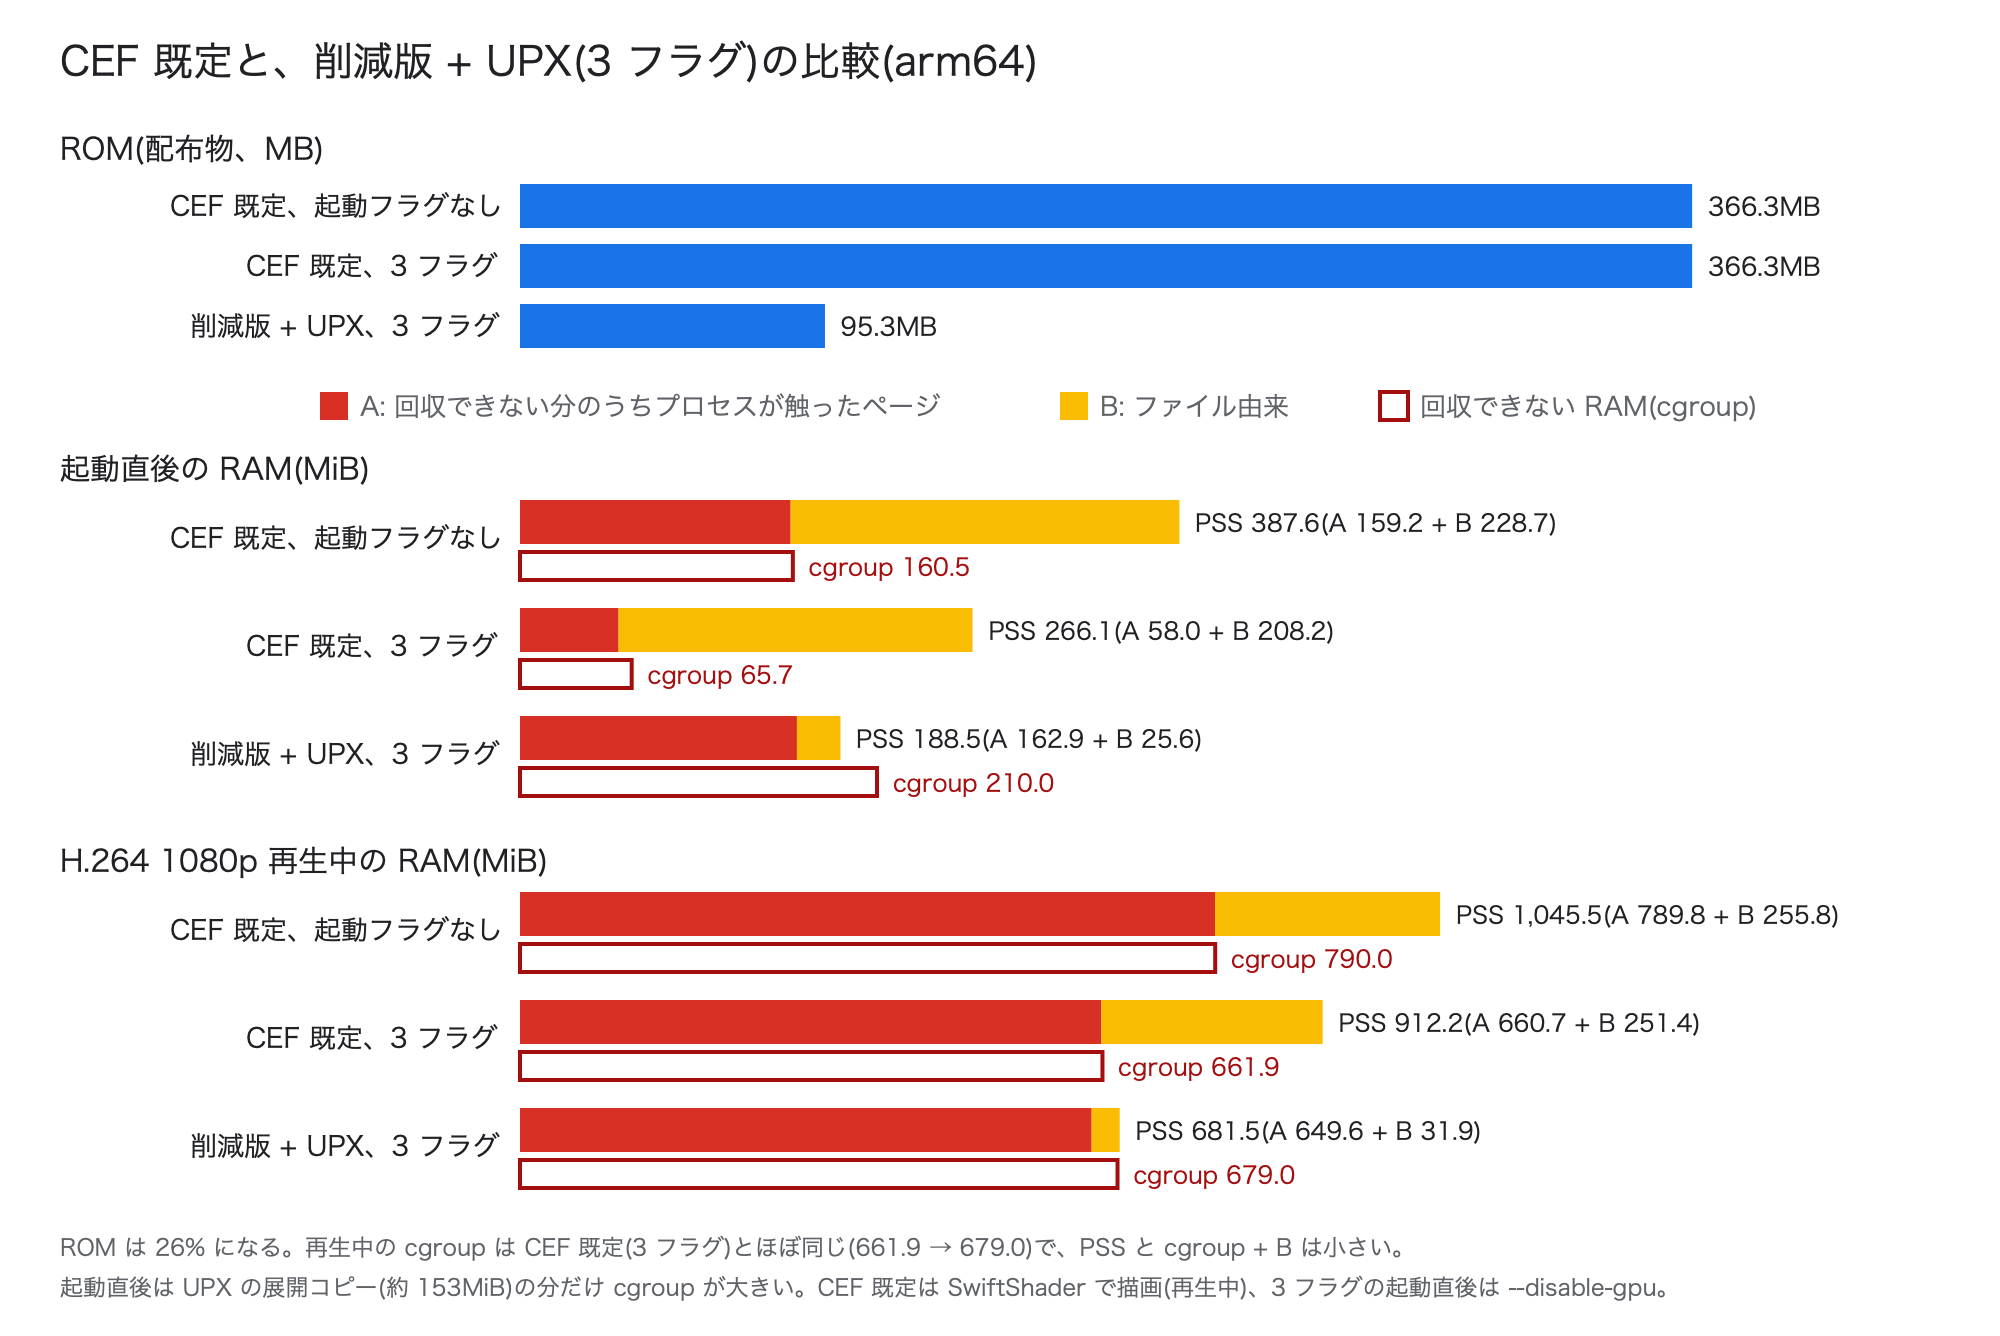
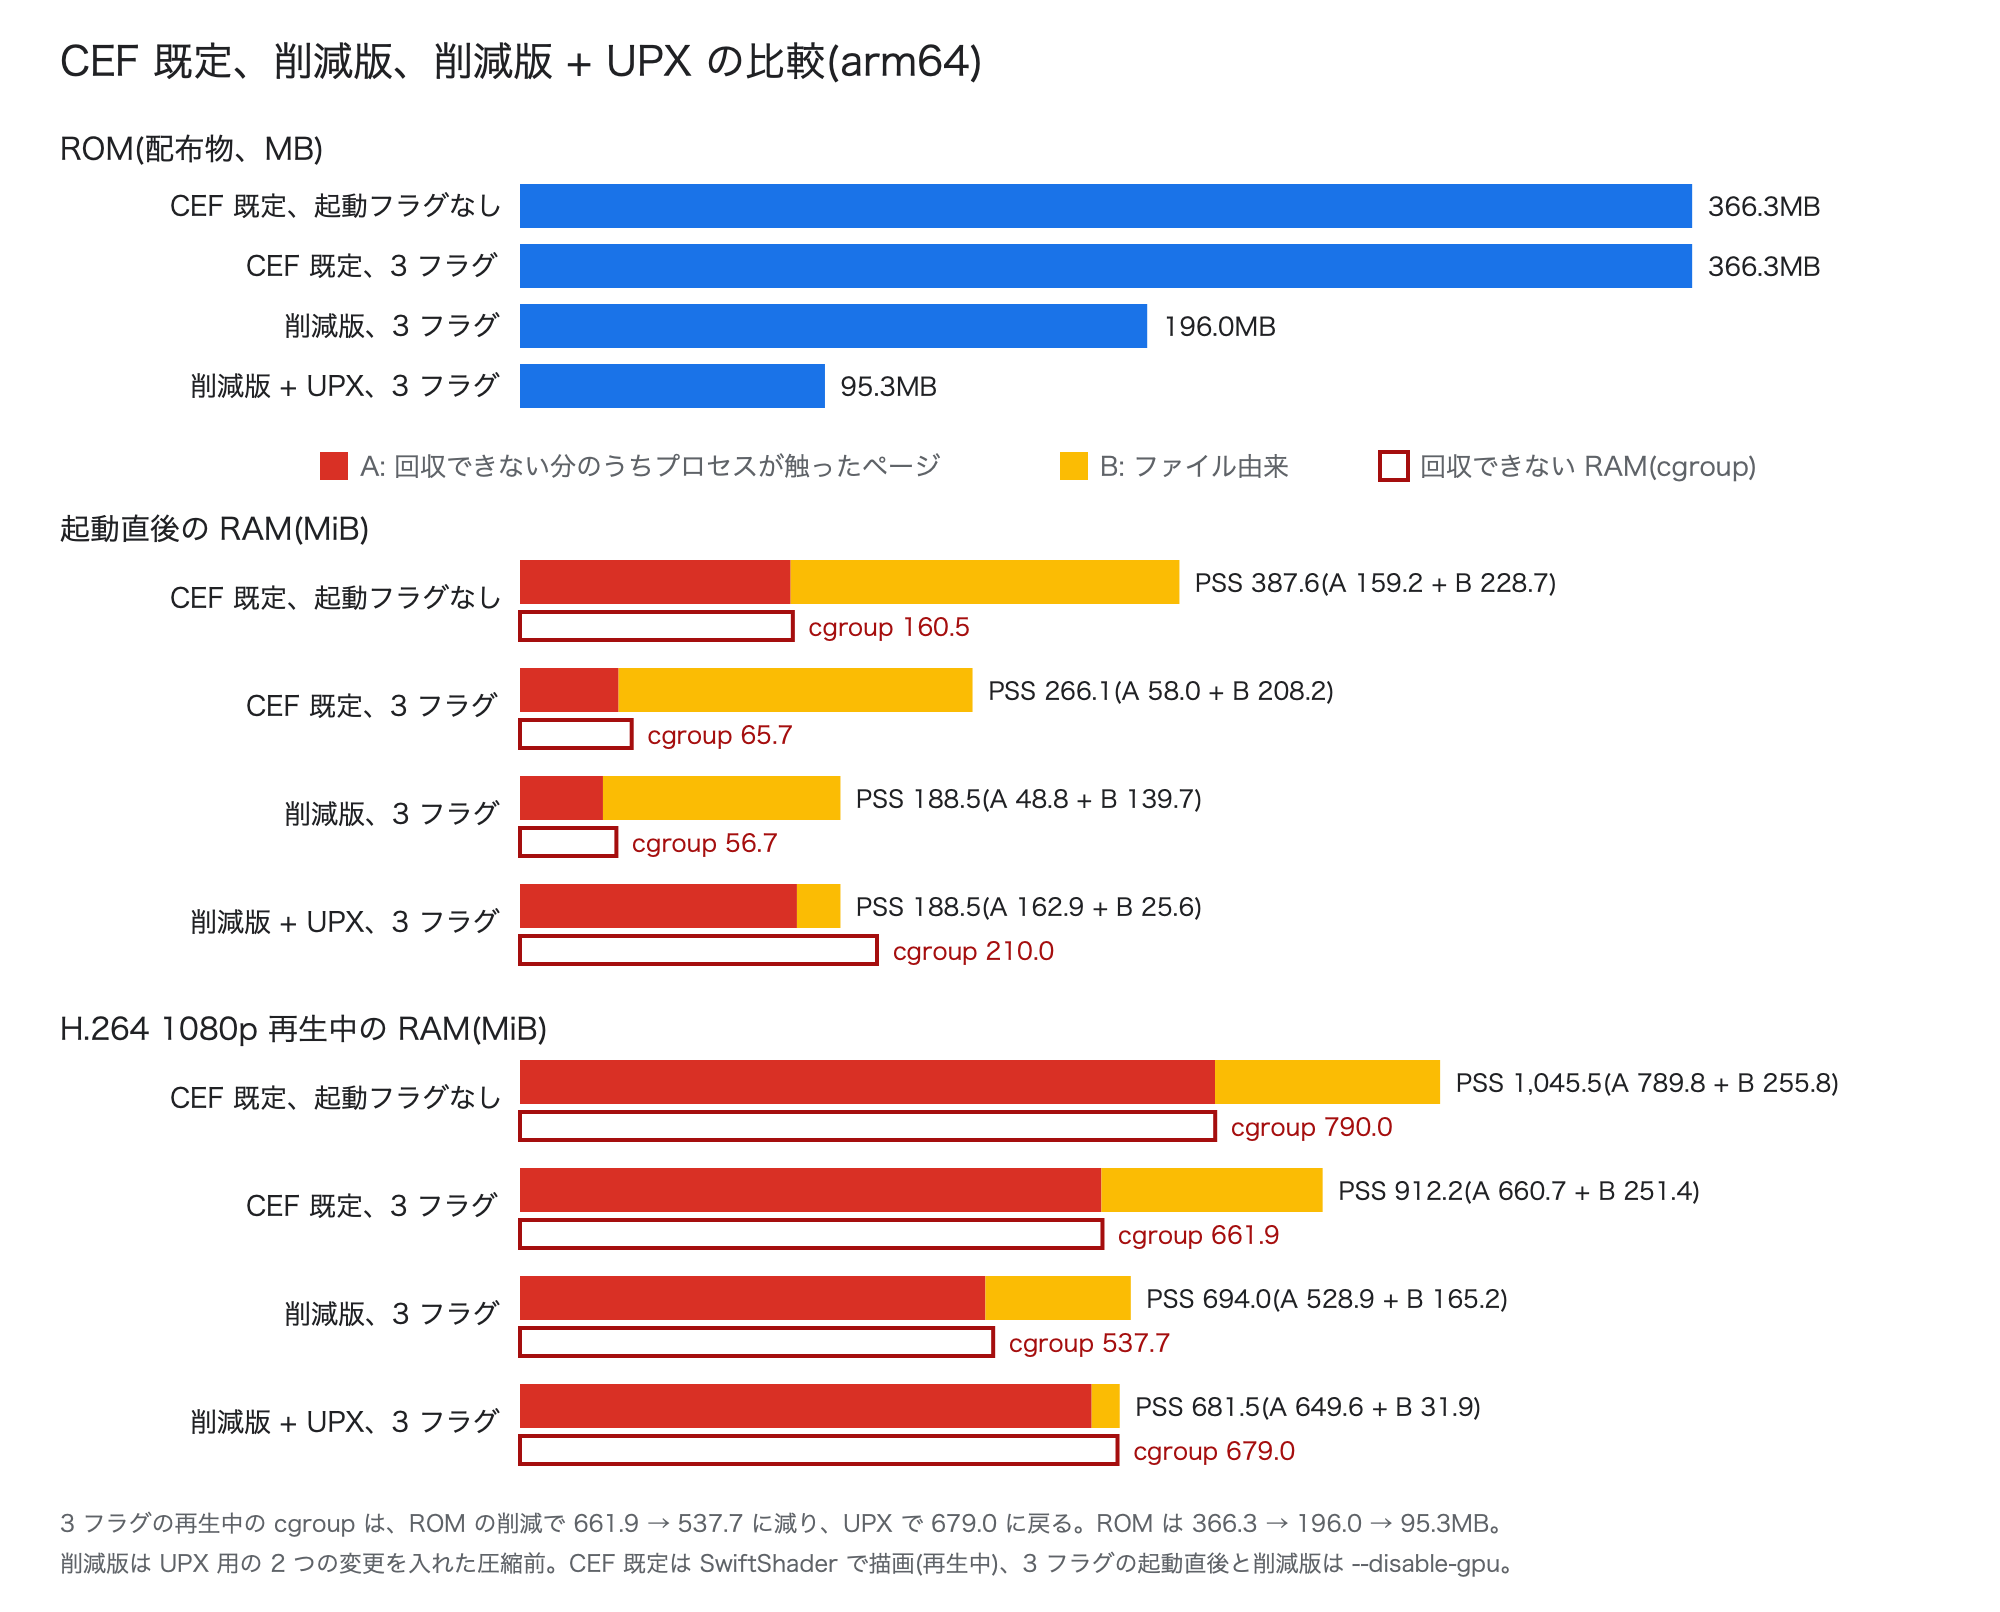
CEF 既定との比較の表と図 17 に削減版(UPX なし)を追加

Changed region(s): [[0.031, 0.0307, 0.93, 0.982], [0.682, 0.2762, 0.868, 0.3069]]

diff --git a/scripts/figs_upx2.py b/scripts/figs_upx2.py
@@ -192,9 +192,10 @@ ab_fig('fig16-upx-startup.svg', 'UPX の有無と起動直後の RAM(arm64、単
        ['UPX では B(ファイル由来)が A(回収できない分)に移り、触っていない展開コードが cgroup にだけ入る。', '削減版は SwiftShader なしで UPX 用の 2 つの変更入り。3 回の中央値。logs/428、483、514。'])
 
 # ---- 図 17: CEF 既定と、削減版 + UPX(3 フラグ)の比較(ROM と RAM)
-b = [t(30, 38, 'CEF 既定と、削減版 + UPX(3 フラグ)の比較(arm64)', 20, bold=True)]
+b = [t(30, 38, 'CEF 既定、削減版、削減版 + UPX の比較(arm64)', 20, bold=True)]
 cfg = [('CEF 既定、起動フラグなし', 366.3, (159.2, 228.7, 160.5, 387.6), (789.8, 255.8, 790.0, 1045.5)),
        ('CEF 既定、3 フラグ', 366.3, (58.0, 208.2, 65.7, 266.1), (660.7, 251.4, 661.9, 912.2)),
+       ('削減版、3 フラグ', 196.0, (48.8, 139.7, 56.7, 188.5), (528.9, 165.2, 537.7, 694.0)),
        ('削減版 + UPX、3 フラグ', 95.3, (162.9, 25.6, 210.0, 188.5), (649.6, 31.9, 679.0, 681.5))]
 X0 = 260; y = 66
 b += [t(30, y + 14, 'ROM(配布物、MB)', 15, bold=True)]; y += 26
@@ -215,7 +216,7 @@ for gi, (gl, sc) in enumerate([('起動直後の RAM(MiB)', 0.85), ('H.264 1080p
         b += [r(X0, y + 26, C * sc, 14, '#fff', DRK, 0, 2), t(X0 + C * sc + 8, y + 38, f'cgroup {C:,.1f}', 12, fill=DRK, bold=True)]
         y += 54
     y += 10
-for k, f in enumerate(['ROM は 26% になる。再生中の cgroup は CEF 既定(3 フラグ)とほぼ同じ(661.9 → 679.0)で、PSS と cgroup + B は小さい。',
-                       '起動直後は UPX の展開コピー(約 153MiB)の分だけ cgroup が大きい。CEF 既定は SwiftShader で描画(再生中)、3 フラグの起動直後は --disable-gpu。']):
+for k, f in enumerate(['3 フラグの再生中の cgroup は、ROM の削減で 661.9 → 537.7 に減り、UPX で 679.0 に戻る。ROM は 366.3 → 196.0 → 95.3MB。',
+                       '削減版は UPX 用の 2 つの変更を入れた圧縮前。CEF 既定は SwiftShader で描画(再生中)、3 フラグの起動直後と削減版は --disable-gpu。']):
     b += [t(30, y + 10 + k * 20, f, 11.5, fill=SUB)]
 save('fig17-upx-vs-default.svg', svg(1000, int(y + 50), b))

diff --git a/docs/qiita-article-draft.md b/docs/qiita-article-draft.md
@@ -613,24 +613,24 @@ CEF 既定の値は「結果」の節と同じ測定です(CEF 既定は SwiftSh
 
 ### CEF 既定と比べると
 
-削減版 + UPX を 3 フラグで動かした場合を、CEF 既定と比べました。
+削減版 + UPX を 3 フラグで動かした場合を、CEF 既定、および UPX をかける前の削減版と比べました。削減版は、UPX 用の 2 つの変更を入れた圧縮前のものです。
 
-| 項目 | CEF 既定、起動フラグなし | CEF 既定、3 フラグ | 削減版 + UPX、3 フラグ |
-|---|---|---|---|
-| ROM(配布物) | 366.3MB | 366.3MB | 95.3MB |
-| 起動直後の PSS(A + B) | 387.6MiB | 266.1MiB | 188.5MiB |
-| 起動直後の A | 159.2MiB | 58.0MiB | 162.9MiB |
-| 起動直後の B | 228.7MiB | 208.2MiB | 25.6MiB |
-| 起動直後の回収できない RAM(cgroup) | 160.5MiB | 65.7MiB | 210.0MiB |
-| 再生中の PSS(A + B) | 1,045.5MiB | 912.2MiB | 681.5MiB |
-| 再生中の A | 789.8MiB | 660.7MiB | 649.6MiB |
-| 再生中の B | 255.8MiB | 251.4MiB | 31.9MiB |
-| 再生中の回収できない RAM(cgroup) | 790.0MiB | 661.9MiB | 679.0MiB |
-| 再生中の cgroup + B | 1,045.8MiB | 913.3MiB | 710.9MiB |
+| 項目 | CEF 既定、起動フラグなし | CEF 既定、3 フラグ | 削減版、3 フラグ | 削減版 + UPX、3 フラグ |
+|---|---|---|---|---|
+| ROM(配布物) | 366.3MB | 366.3MB | 196.0MB | 95.3MB |
+| 起動直後の PSS(A + B) | 387.6MiB | 266.1MiB | 188.5MiB | 188.5MiB |
+| 起動直後の A | 159.2MiB | 58.0MiB | 48.8MiB | 162.9MiB |
+| 起動直後の B | 228.7MiB | 208.2MiB | 139.7MiB | 25.6MiB |
+| 起動直後の回収できない RAM(cgroup) | 160.5MiB | 65.7MiB | 56.7MiB | 210.0MiB |
+| 再生中の PSS(A + B) | 1,045.5MiB | 912.2MiB | 694.0MiB | 681.5MiB |
+| 再生中の A | 789.8MiB | 660.7MiB | 528.9MiB | 649.6MiB |
+| 再生中の B | 255.8MiB | 251.4MiB | 165.2MiB | 31.9MiB |
+| 再生中の回収できない RAM(cgroup) | 790.0MiB | 661.9MiB | 537.7MiB | 679.0MiB |
+| 再生中の cgroup + B | 1,045.8MiB | 913.3MiB | 702.9MiB | 710.9MiB |
 
-![CEF 既定と削減版 + UPX(3 フラグ)の比較](https://raw.githubusercontent.com/aRaikoFunakami/CEF_M158_Investigation/main/docs/images/fig17-upx-vs-default.png?v=20261114b)
+![CEF 既定、削減版、削減版 + UPX(3 フラグ)の比較](https://raw.githubusercontent.com/aRaikoFunakami/CEF_M158_Investigation/main/docs/images/fig17-upx-vs-default.png?v=20261114c)
 
-CEF 既定を同じ 3 フラグで動かした場合と比べても、再生中の回収できない RAM(cgroup)は +17MiB で、ほぼ同じです。プロセスが触ったページ(A)では −11MiB、PSS では −231MiB です。UPX で増える分(+141MiB)を、ROM の削減で減った分(CEF 既定 → 削減版で −124MiB)がほぼ打ち消しています。起動直後は動画のバッファなどがなく、UPX の展開コピー(約 153MiB)の割合が大きいので、+144MiB の差が残ります。CEF 既定と削減版では GPU の条件(SwiftShader と `--disable-gpu`)が違うので、差のすべてが ROM の削減と UPX によるものではありません。
+CEF 既定を同じ 3 フラグで動かした場合と比べても、再生中の回収できない RAM(cgroup)は +17MiB で、ほぼ同じです。プロセスが触ったページ(A)では −11MiB、PSS では −231MiB です。3 フラグで並べると、再生中の回収できない RAM は、ROM の削減で 661.9 → 537.7MiB(−124)に減り、UPX で 679.0MiB(+141)に戻ります。UPX で増える分を、ROM の削減で減った分がほぼ打ち消しています。起動直後は動画のバッファなどがなく、UPX の展開コピー(約 153MiB)の割合が大きいので、+144MiB の差が残ります。CEF 既定と削減版では GPU の条件(SwiftShader と `--disable-gpu`)が違うので、差のすべてが ROM の削減と UPX によるものではありません。
 
 ## 回収できない RAM が増える仕組み
 
